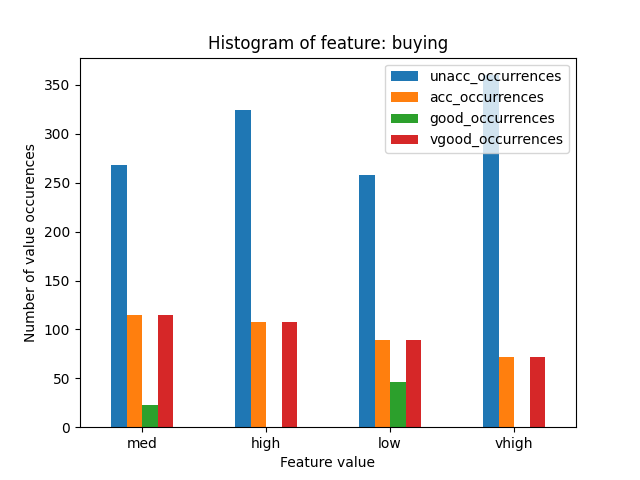
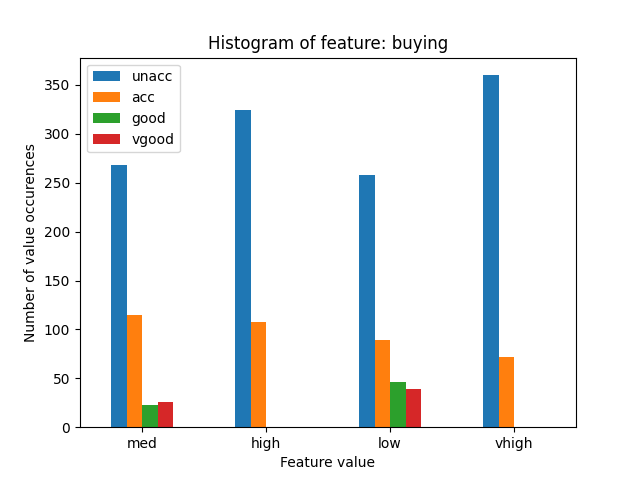
Splitting dataset by gini index

diff --git a/random_forest/classifier.py b/random_forest/classifier.py
@@ -7,10 +7,11 @@ Dataset source: https://archive.ics.uci.edu/ml/machine-learning-databases/car/
 """
 
 import argparse
-import math
+from typing import List
 import matplotlib.pyplot as plt
 import pandas as pd
 import numpy as np
+from scipy.sparse import data
 import seaborn as sn
 from sklearn.model_selection import (
     train_test_split,
@@ -40,26 +41,95 @@ def load_data_from_file(filename: str) -> DataFrame:
     return df
 
 
-def prepare_train_and_test_set(
-    dataset: DataFrame, train_size: float, is_train_set_sorted: bool = False
-):
-    train_set, test_set = train_test_split(dataset, train_size=train_size)
-
-    if is_train_set_sorted:
-        train_set = train_set.sort_index()
-
-    return train_set, test_set
-
-
-def get_test_set_classes(test_set: DataFrame):
+def get_dataset_classes(dataset: DataFrame):
     classes = {}
     i = 0
-    for index in test_set.index:
-        if test_set[CLASS][index] not in classes.values():
-            classes[i] = test_set[CLASS][index]
+    for index in dataset.index:
+        if dataset[CLASS][index] not in classes.values():
+            classes[i] = dataset[CLASS][index]
             i = i + 1
 
     return classes
+
+
+def evaluate_wiht_cross_validation(train_set: DataFrame, folds_number: int):
+    split = np.array_split(train_set, folds_number)
+
+    for i in range(folds_number):
+        train_set_parts = split.copy()
+        del train_set_parts[i]
+
+        train_set = pd.concat(train_set_parts, sort=False)
+        test_set = split[i]
+
+
+def test_split(dataset: DataFrame, feature: str, value: str):
+    left = dataset[dataset[feature] == value]
+    right = dataset[dataset[feature] != value]
+
+    return left, right
+
+
+def calculate_gini_index(left: DataFrame, right: DataFrame, class_values: list):
+    gini_index = 0
+    branches = [left, right]
+
+    for class_value in class_values:
+        for branch in branches:
+            branch_size = len(branch.index)
+            if branch_size == 0:
+                continue
+
+            class_value_occurances = branch.loc[
+                branch[CLASS] == class_value, CLASS
+            ].count()
+            proportion = class_value_occurances / branch_size
+            gini_index += proportion * (1 - proportion)
+
+    return gini_index
+
+
+def get_best_split(dataset: DataFrame):
+    class_values = dataset[CLASS].tolist()
+    previous_best_gini_index = 10000
+    best_feature = ""
+    best_value = ""
+    best_left = ""
+    best_right = ""
+
+    for feature in FEATURES:
+        values = list(dict.fromkeys(dataset[feature].tolist()))
+
+        for value in values:
+            left, right = test_split(dataset, feature, value)
+            gini_index = calculate_gini_index(left, right, class_values)
+            print(f"gini: {gini_index}, feature: {feature}, value: {value}")
+
+            if gini_index < previous_best_gini_index:
+                previous_best_gini_index = gini_index
+                best_feature = feature
+                best_value = value
+                best_left = left
+                best_right = right
+
+    best_split = {
+        "feature": best_feature,
+        "value": best_value,
+        "left": best_left,
+        "right": best_right,
+    }
+    return best_split
+
+
+def split_on_node(node: dict, max_depth: int, current_depth: int):
+    left, right = node["left"], node["right"]
+    del node["left"]
+    del node["right"]
+    pass
+
+
+def build_decision_tree(train_set: DataFrame, max_depth: int):
+    tree_root = get_best_split(train_set)
 
 
 def plot_features_histograms(dataset: DataFrame):
@@ -142,17 +212,17 @@ def plot_features_histograms(dataset: DataFrame):
                         feature_values, all_feature_values, occurrences
                     )
 
-                if key == "acc":
+                if key == "vgood":
                     vgood_occurrences = create_occurrences_lists(
                         feature_values, all_feature_values, occurrences
                     )
 
         df = pd.DataFrame(
             {
-                "unacc_occurrences": unacc_occurrences,
-                "acc_occurrences": acc_occurrences,
-                "good_occurrences": good_occurrences,
-                "vgood_occurrences": vgood_occurrences,
+                "unacc": unacc_occurrences,
+                "acc": acc_occurrences,
+                "good": good_occurrences,
+                "vgood": vgood_occurrences,
             },
             index=all_feature_values,
         )
@@ -188,6 +258,34 @@ def main():
     )
 
     parser.add_argument(
+        "-ts",
+        "--train-size",
+        type=float,
+        help="Percentage of dataset used in the train set.",
+    )
+
+    parser.add_argument(
+        "-fn",
+        "--folds_number",
+        type=int,
+        help="Number of folds used in cross-validation",
+    )
+
+    parser.add_argument(
+        "-md",
+        "--max-depth",
+        type=int,
+        help="Maximum depth of decision trees",
+    )
+
+    parser.add_argument(
+        "-tn",
+        "--trees-number",
+        type=int,
+        help="Number of trees used in random forest",
+    )
+
+    parser.add_argument(
         "-hist",
         "--plot-histograms",
         action="store_true",
@@ -197,12 +295,23 @@ def main():
     args = parser.parse_args()
 
     _filename = args.filename
+    _train_size = args.train_size
+    _folds_number = args.folds_number
+    _max_depth = args.max_depth
+    _trees_number = args.trees_number
     _plot_histograms = args.plot_histograms
 
     dataset = load_data_from_file(_filename)
 
     if _plot_histograms:
         plot_features_histograms(dataset)
+
+    train_set, validation_set = train_test_split(dataset, train_size=_train_size)
+
+    evaluate_wiht_cross_validation(train_set, _folds_number)
+
+    best_split = get_best_split(train_set)
+    print(best_split)
 
 
 if __name__ == "__main__":
